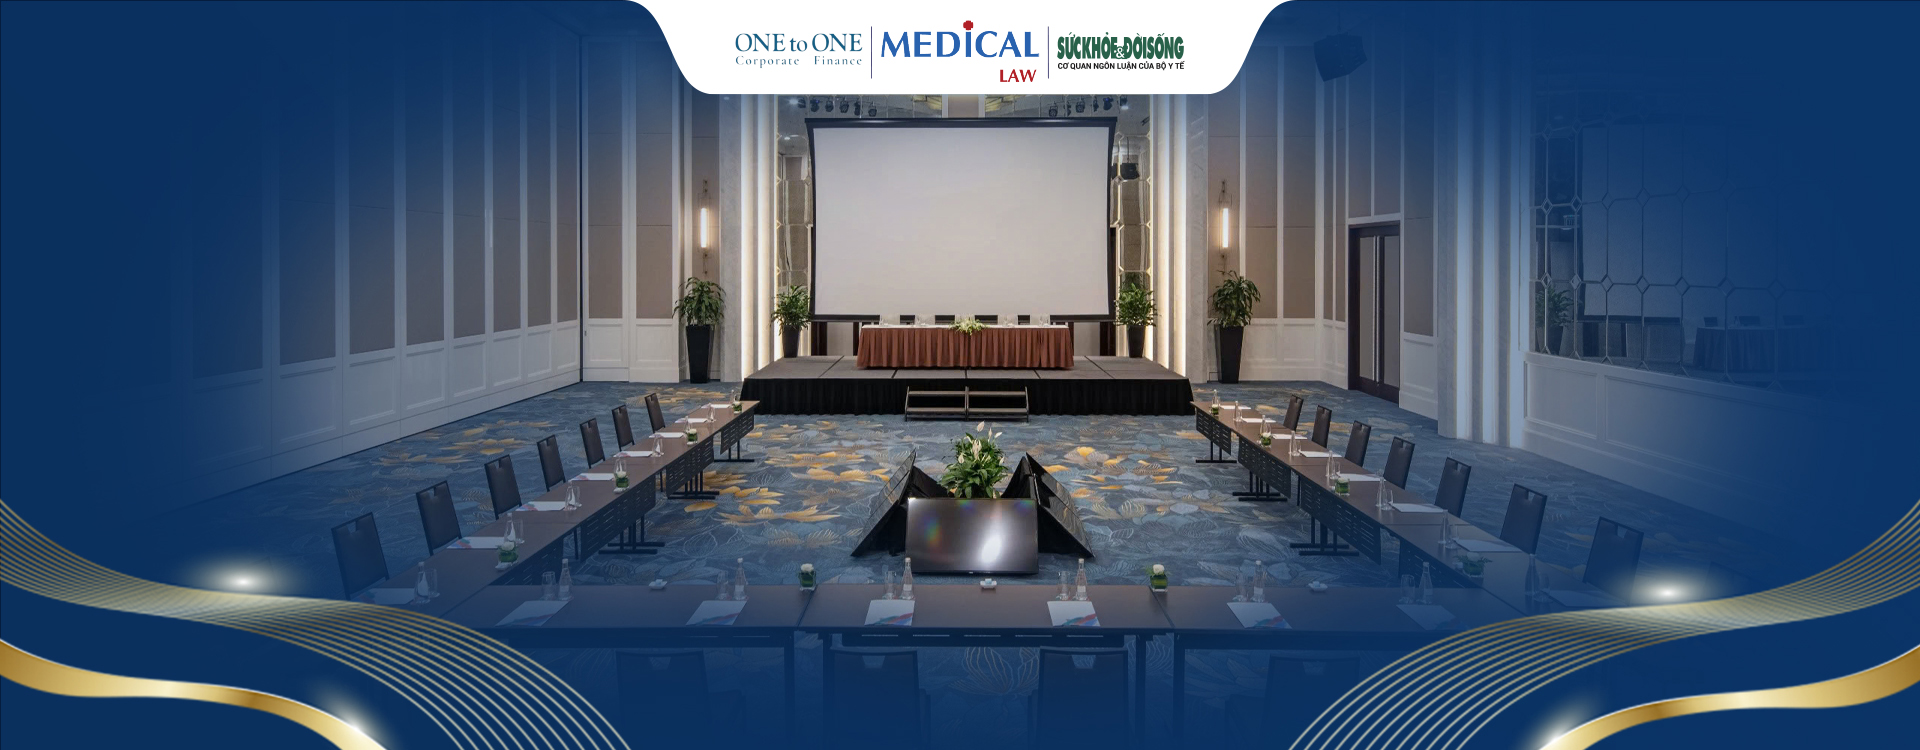
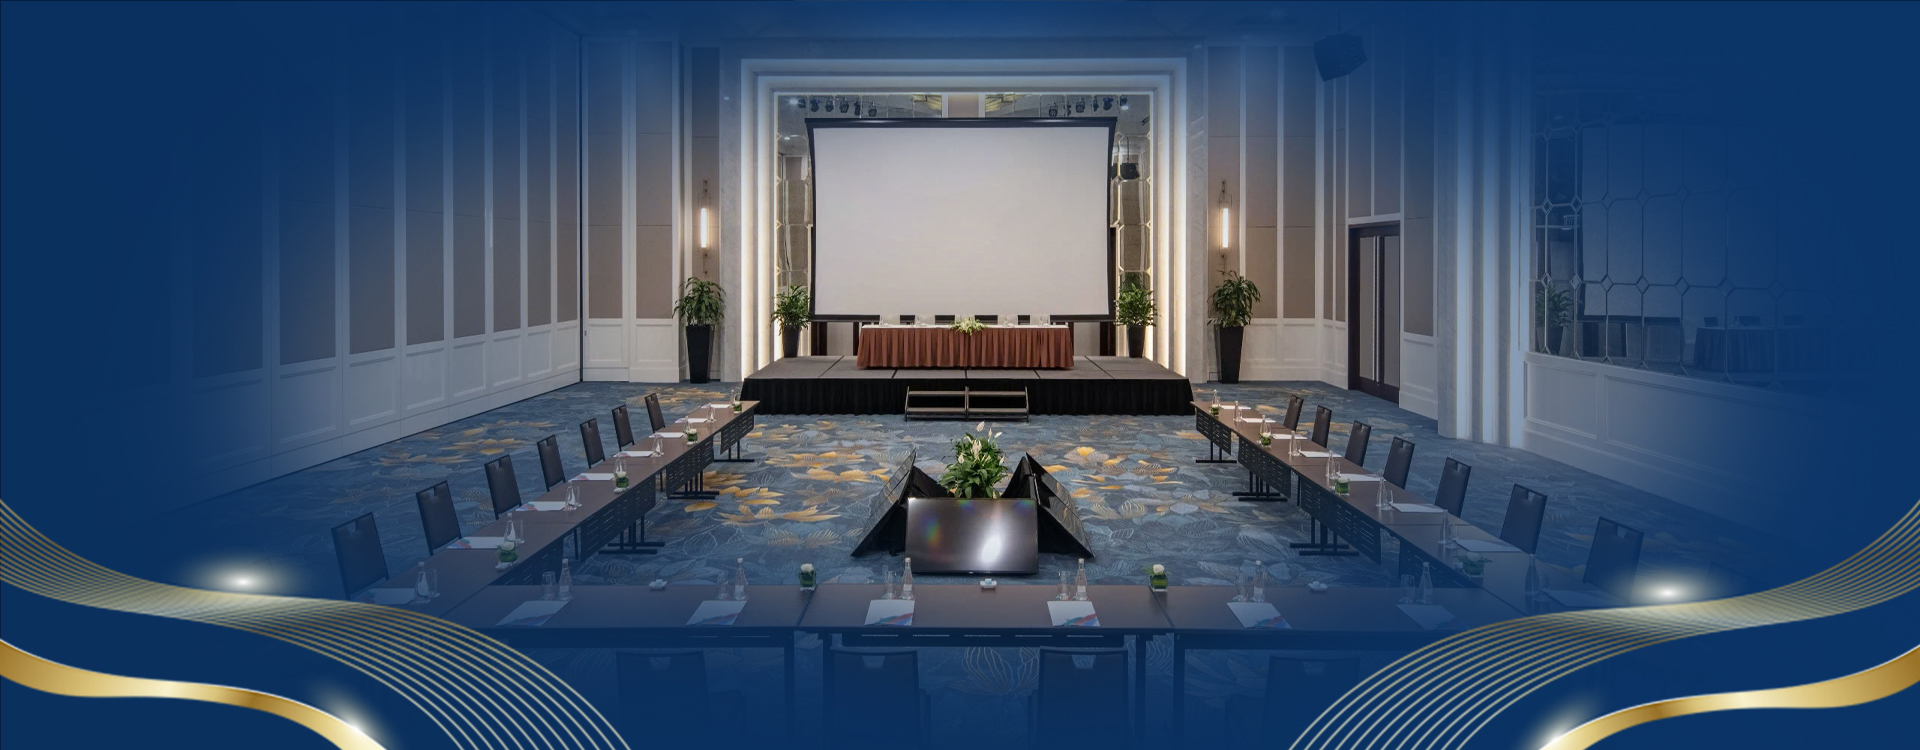
update

Changed region(s): [[0.3125, 0.0, 0.6875, 0.1533]]

diff --git a/assets/css/en.css b/assets/css/en.css
@@ -36,7 +36,7 @@ body { font-family: 'Inter', sans-serif; -webkit-font-smoothing: antialiased; -m
 .slideshow-indicators .indicator { width: 12px; height: 12px; border-radius: 50%; background: rgba(255, 255, 255, 0.5); border: 2px solid #0a2540; cursor: pointer; transition: all 0.3s ease; }
 .slideshow-indicators .indicator.active { background: #0a2540; transform: scale(1.3); }
 .slideshow-indicators .indicator:hover { background: #0a2540; transform: scale(1.1); }
-@media (max-width: 767px) { .integrated-slideshow { padding: 0 15px; } .slideshow-container { height: 700px; } .slide .grid { grid-template-columns: 1fr !important; grid-template-rows: 1fr 1fr; gap: 20px; padding: 0 20px !important; } .slide img { width: 100%; height: auto; object-fit: contain; } .slide .space-y-8 { height: auto; display: flex; flex-direction: column; justify-content: flex-start; padding: 15px 10px; } .slide h2 { font-size: 2rem; line-height: 1.2; margin-bottom: 0.75rem; } .slide h3 { font-size: 1.5rem; line-height: 1.3; margin-bottom: 0.75rem; } .slide h4 { font-size: 1.25rem; line-height: 1.4; margin-bottom: 1rem; } .slide p { font-size: 1rem; line-height: 1.5; margin-bottom: 0.75rem; } .slideshow-nav-btn { width: 40px; height: 40px; } .slideshow-nav-btn.prev { left: -15px; } .slideshow-nav-btn.next { right: -15px; } .slideshow-nav { padding: 0; } .slideshow-indicators { gap: 6px; } .slideshow-indicators .indicator { width: 10px; height: 10px; } }
+@media (max-width: 767px) {.hero-container { background-size: unset !important; } .integrated-slideshow { padding: 0 15px; } .slideshow-container { height: 700px; } .slide .grid { grid-template-columns: 1fr !important; grid-template-rows: 1fr 1fr; gap: 20px; padding: 0 20px !important; } .slide img { width: 100%; height: auto; object-fit: contain; } .slide .space-y-8 { height: auto; display: flex; flex-direction: column; justify-content: flex-start; padding: 15px 10px; } .slide h2 { font-size: 2rem; line-height: 1.2; margin-bottom: 0.75rem; } .slide h3 { font-size: 1.5rem; line-height: 1.3; margin-bottom: 0.75rem; } .slide h4 { font-size: 1.25rem; line-height: 1.4; margin-bottom: 1rem; } .slide p { font-size: 1rem; line-height: 1.5; margin-bottom: 0.75rem; } .slideshow-nav-btn { width: 40px; height: 40px; } .slideshow-nav-btn.prev { left: -15px; } .slideshow-nav-btn.next { right: -15px; } .slideshow-nav { padding: 0; } .slideshow-indicators { gap: 6px; } .slideshow-indicators .indicator { width: 10px; height: 10px; } }
 @media (max-width: 480px) { .integrated-slideshow { padding: 0 10px; } .slideshow-container { height: 600px; } .slide .grid { grid-template-columns: 1fr !important; grid-template-rows: 1fr 1fr; gap: 15px; padding: 0 15px !important; } .slide img { width: 100%; height: auto; object-fit: contain; } .slide .space-y-8 { height: auto; display: flex; flex-direction: column; justify-content: flex-start; padding: 10px 5px; } .slide h2 { font-size: 1.75rem; line-height: 1.2; margin-bottom: 0.5rem; } .slide h3 { font-size: 1.25rem; line-height: 1.3; margin-bottom: 0.5rem; } .slide h4 { font-size: 1.125rem; line-height: 1.4; margin-bottom: 0.75rem; } .slide p { font-size: 0.875rem; line-height: 1.4; margin-bottom: 0.5rem; } }
 
 

diff --git a/index.html b/index.html
@@ -80,8 +80,9 @@
     </header>
 
     <main>
-        <section class="hero-container text-white">
-            <div class="hero-content container mx-auto px-4 py-12 md:py-36 text-center flex flex-col items-center">
+        <section class="hero-container relative text-white">
+            <img src="./assets/imgs/logo.png" class="absolute top-0 left-[50%] -translate-x-[50%] z-[1]" alt="">
+            <div class="hero-content container mx-auto px-4 py-20 md:py-36 text-center flex flex-col items-center">
                 <h1 class="text-2xl md:text-5xl font-black mb-6 tracking-normal uppercase !leading-[1.3] md:w-3/4">HỘI NGHỊ QUỐC TẾ VỀ MUA BÁN VÀ SÁP NHẬP (M&A) TRONG NGÀNH Y TẾ NĂM 2025 HIMA2025</h1>
                 <p class="text-2xl md:text-3xl font-semibold mb-4 text-brand-gold timetable"><i>(Lần thứ 1)</i></p>
                 <p class="text-xl md:text-2xl text-white max-w-3xl mx-auto mb-10">Minh bạch pháp lý – Giá trị Y khoa</p>

diff --git a/en.html b/en.html
@@ -72,8 +72,9 @@
     </header>
 
     <main>
-        <section class="hero-container text-white">
-            <div class="hero-content container mx-auto px-4 py-12 md:py-36 text-center flex flex-col items-center">
+        <section class="hero-container relative text-white">
+            <img src="./assets/imgs/logo.png" class="absolute top-0 left-[50%] -translate-x-[50%] z-[1]" alt="">
+            <div class="hero-content container mx-auto px-4 py-20 md:py-36 text-center flex flex-col items-center">
                 <h1 class="text-2xl md:text-5xl font-black  mb-6 tracking-normal uppercase !leading-[1.3] md:w-3/4">INTERNATIONAL CONFERENCE ON MERGERS AND ACQUISITIONS (M&A) IN THE HEALTHCARE SECTOR 2025 HIMA2025</h1>
                 <p class="text-2xl md:text-3xl font-semibold mb-4 text-brand-gold timetable">(Held for the first time)</p>
                 <p class="text-xl md:text-2xl text-white max-w-3xl mx-auto mb-10">Legal Clarity – Medical Value</p>

diff --git a/assets/css/index.css b/assets/css/index.css
@@ -33,7 +33,7 @@ body { font-family: 'Inter', sans-serif; -webkit-font-smoothing: antialiased; -m
 .carousel-slide-desktop.right { right: 10%; }
 .carousel-slide-desktop.center { width: 40%; opacity: 1; transform: translateX(-50%) scale(1); filter: blur(0px); z-index: 5; left: 50%; display: block; }
 .carousel-slide-desktop img { width: 100%; height: 100%; object-fit: cover; } }
-@media (max-width: 767px) { .carousel-slide img { height: 250px; } .carousel-nav { width: 40px; height: 40px; } .carousel-nav.prev { left: 10px; } .carousel-nav.next { right: 10px; } }
+@media (max-width: 767px) { .carousel-slide img { height: 250px; } .carousel-nav { width: 40px; height: 40px; } .carousel-nav.prev { left: 10px; } .carousel-nav.next { right: 10px; } .hero-container { background-size: unset !important; }}
 
 /* Integrated Slideshow Styles */
 .integrated-slideshow { position: relative; overflow: visible; border-radius: 1.5rem; padding: 0 20px; }
